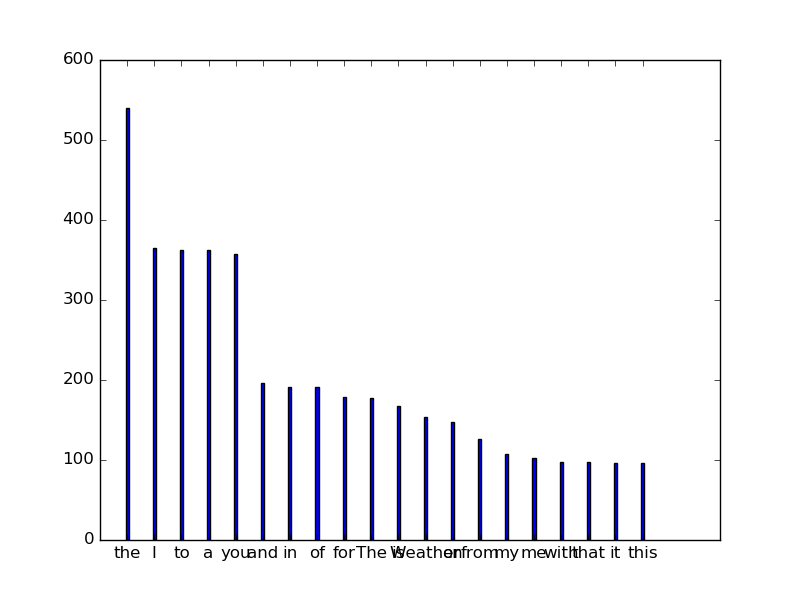
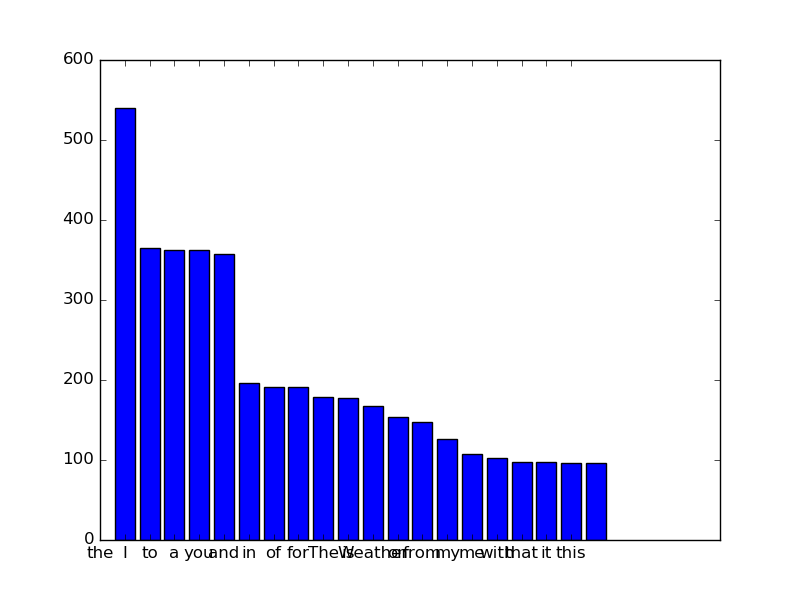
Another plot try

Changed region(s): [[0.0938, 0.18, 0.8125, 0.93]]

diff --git a/EX2Tweetwordcount/t20plot.py b/EX2Tweetwordcount/t20plot.py
@@ -18,17 +18,17 @@ for rec in records:
 	words.append(rec[0])
 	counts.append(int(rec[1]))
 
-wordnums = []
-wordlens = []
-for word in words:
-	wordlens.append(len(word))
-interval = max(wordlens)
-curlen = 0
-for word in words:
-	curlen += interval
-	wordnums.append(curlen)
+wordnums = [1,2,3,4,5,6,7,8,9,10,11,12,13,14,15,16,17,18,19,20]
+#wordlens = []
+#for word in words:
+#	wordlens.append(len(word))
+#interval = max(wordlens)
+#curlen = 0
+#for word in words:
+#	curlen += interval
+#	wordnums.append(curlen)
 plt.bar(wordnums, counts, align='center')
-plt.xticks(wordnums, words)
+plt.xticks(np.arange(20), words)
 
 # x = [datetime.datetime(2011, 1, 4, 0, 0),
 #      datetime.datetime(2011, 1, 5, 0, 0),
